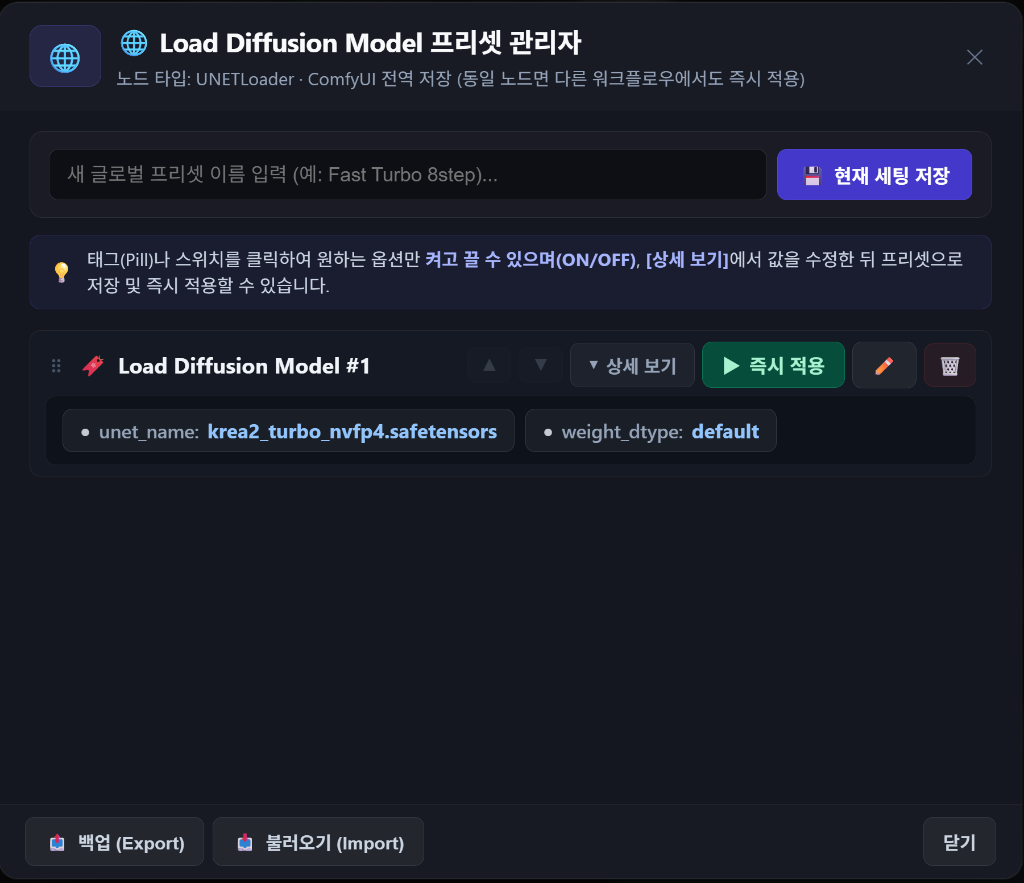
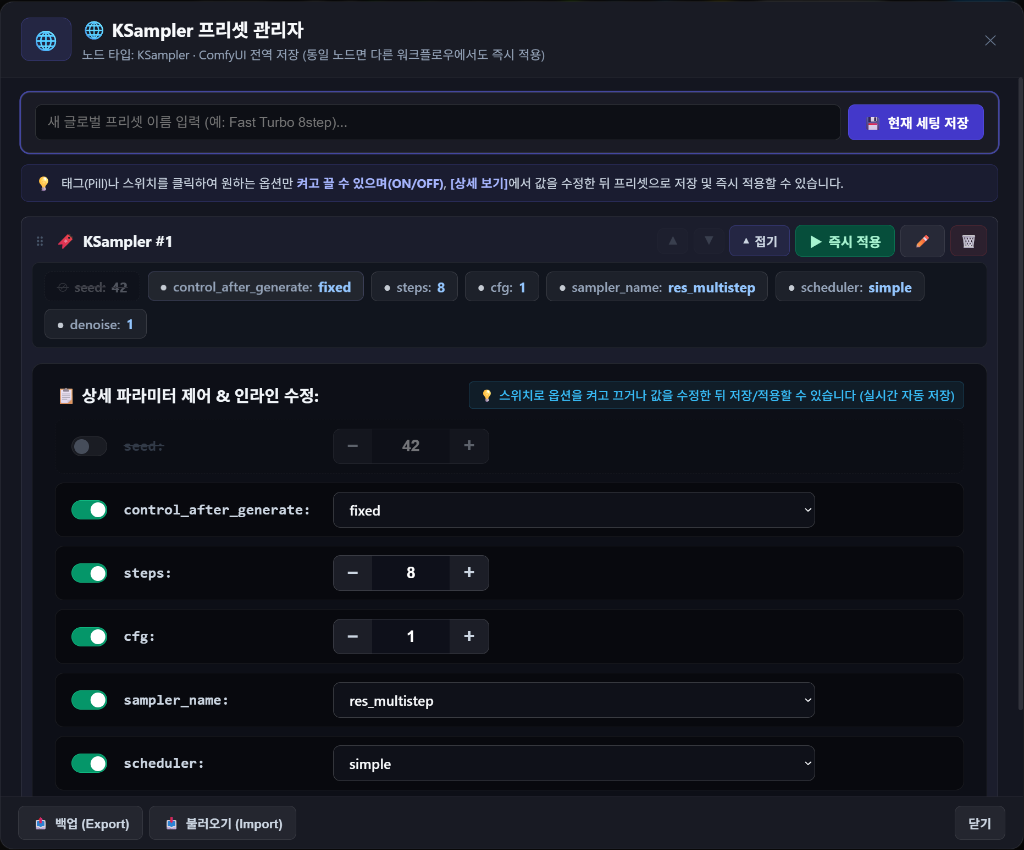
docs: showcase individual parameter ON/OFF toggle in global preset modal

diff --git a/README.md b/README.md
@@ -95,16 +95,19 @@
 
 ---
 
-### 5⃣ 🌐 개별 노드 글로벌 프리셋 관리자
-개별 노드의 모든 파라미터를 세밀하게 튜닝하고 알약 태그로 선택 적용하는 독립 관리 시스템입니다.
+### 5⃣ 🌐 개별 노드 글로벌 프리셋 관리자 (각 값별 ON/OFF 선택 토글)
+개별 노드의 모든 파라미터를 세밀하게 튜닝하고, **각 값을 개별적으로 켜고 끌 수 있는(ON/OFF)** 독립 프리셋 관리 시스템입니다.
 
 <p align="center">
-  <img src="docs/assets/05_global_preset_modal.png" alt="글로벌 프리셋 관리자" width="850">
+  <img src="docs/assets/05_global_preset_modal.png" alt="글로벌 프리셋 관리자 - 파라미터별 ON/OFF 토글" width="850">
 </p>
 
-- **선택적 파라미터 토글**: `unet_name`, `weight_dtype`, `seed`, `steps` 등 원하는 위젯 값만 클릭하여 On/Off 가능
-- **인라인 스텝퍼 에디팅**: 상세 보기에서 수치를 직접 수정하고 저장 가능
-- **ComfyUI 전역 공유**: 동일 노드라면 어떤 워크플로우를 열어도 즉시 동일 프리셋 목록 제공
+- **💡 각 파라미터별 ON/OFF 선택 토글**:
+  - 상단 알약 태그(Pill)나 상세 보기의 토글 스위치를 클릭하여 **원하는 옵션만 자유롭게 켜고 끌 수 있습니다.**
+  - 예시: 위 스크린샷처럼 `seed`만 OFF(취소선 및 어둡게 처리)하면, 프리셋 적용 시 **시드 번호는 유지한 채 `steps: 8`, `cfg: 1.0`, `sampler_name`, `scheduler`만 완벽하게 주입**됩니다.
+- **양방향 실시간 동기화**: 접힌 상태의 알약 태그 ↔ 상세 파라미터 제어 스위치가 100% 실시간 연동됩니다.
+- **인라인 스텝퍼 에디팅**: `[-] [수치] [+]` 버튼 및 드롭다운으로 모달 내에서 직접 값을 수정하여 저장 가능
+- **ComfyUI 전역 영구 공유**: 워크플로우 파일이 바뀌어도 동일한 노드 종류(KSampler, VAE, CLIP, Model 등)라면 어디서든 즉시 불러와 사용 가능
 
 ---
 
